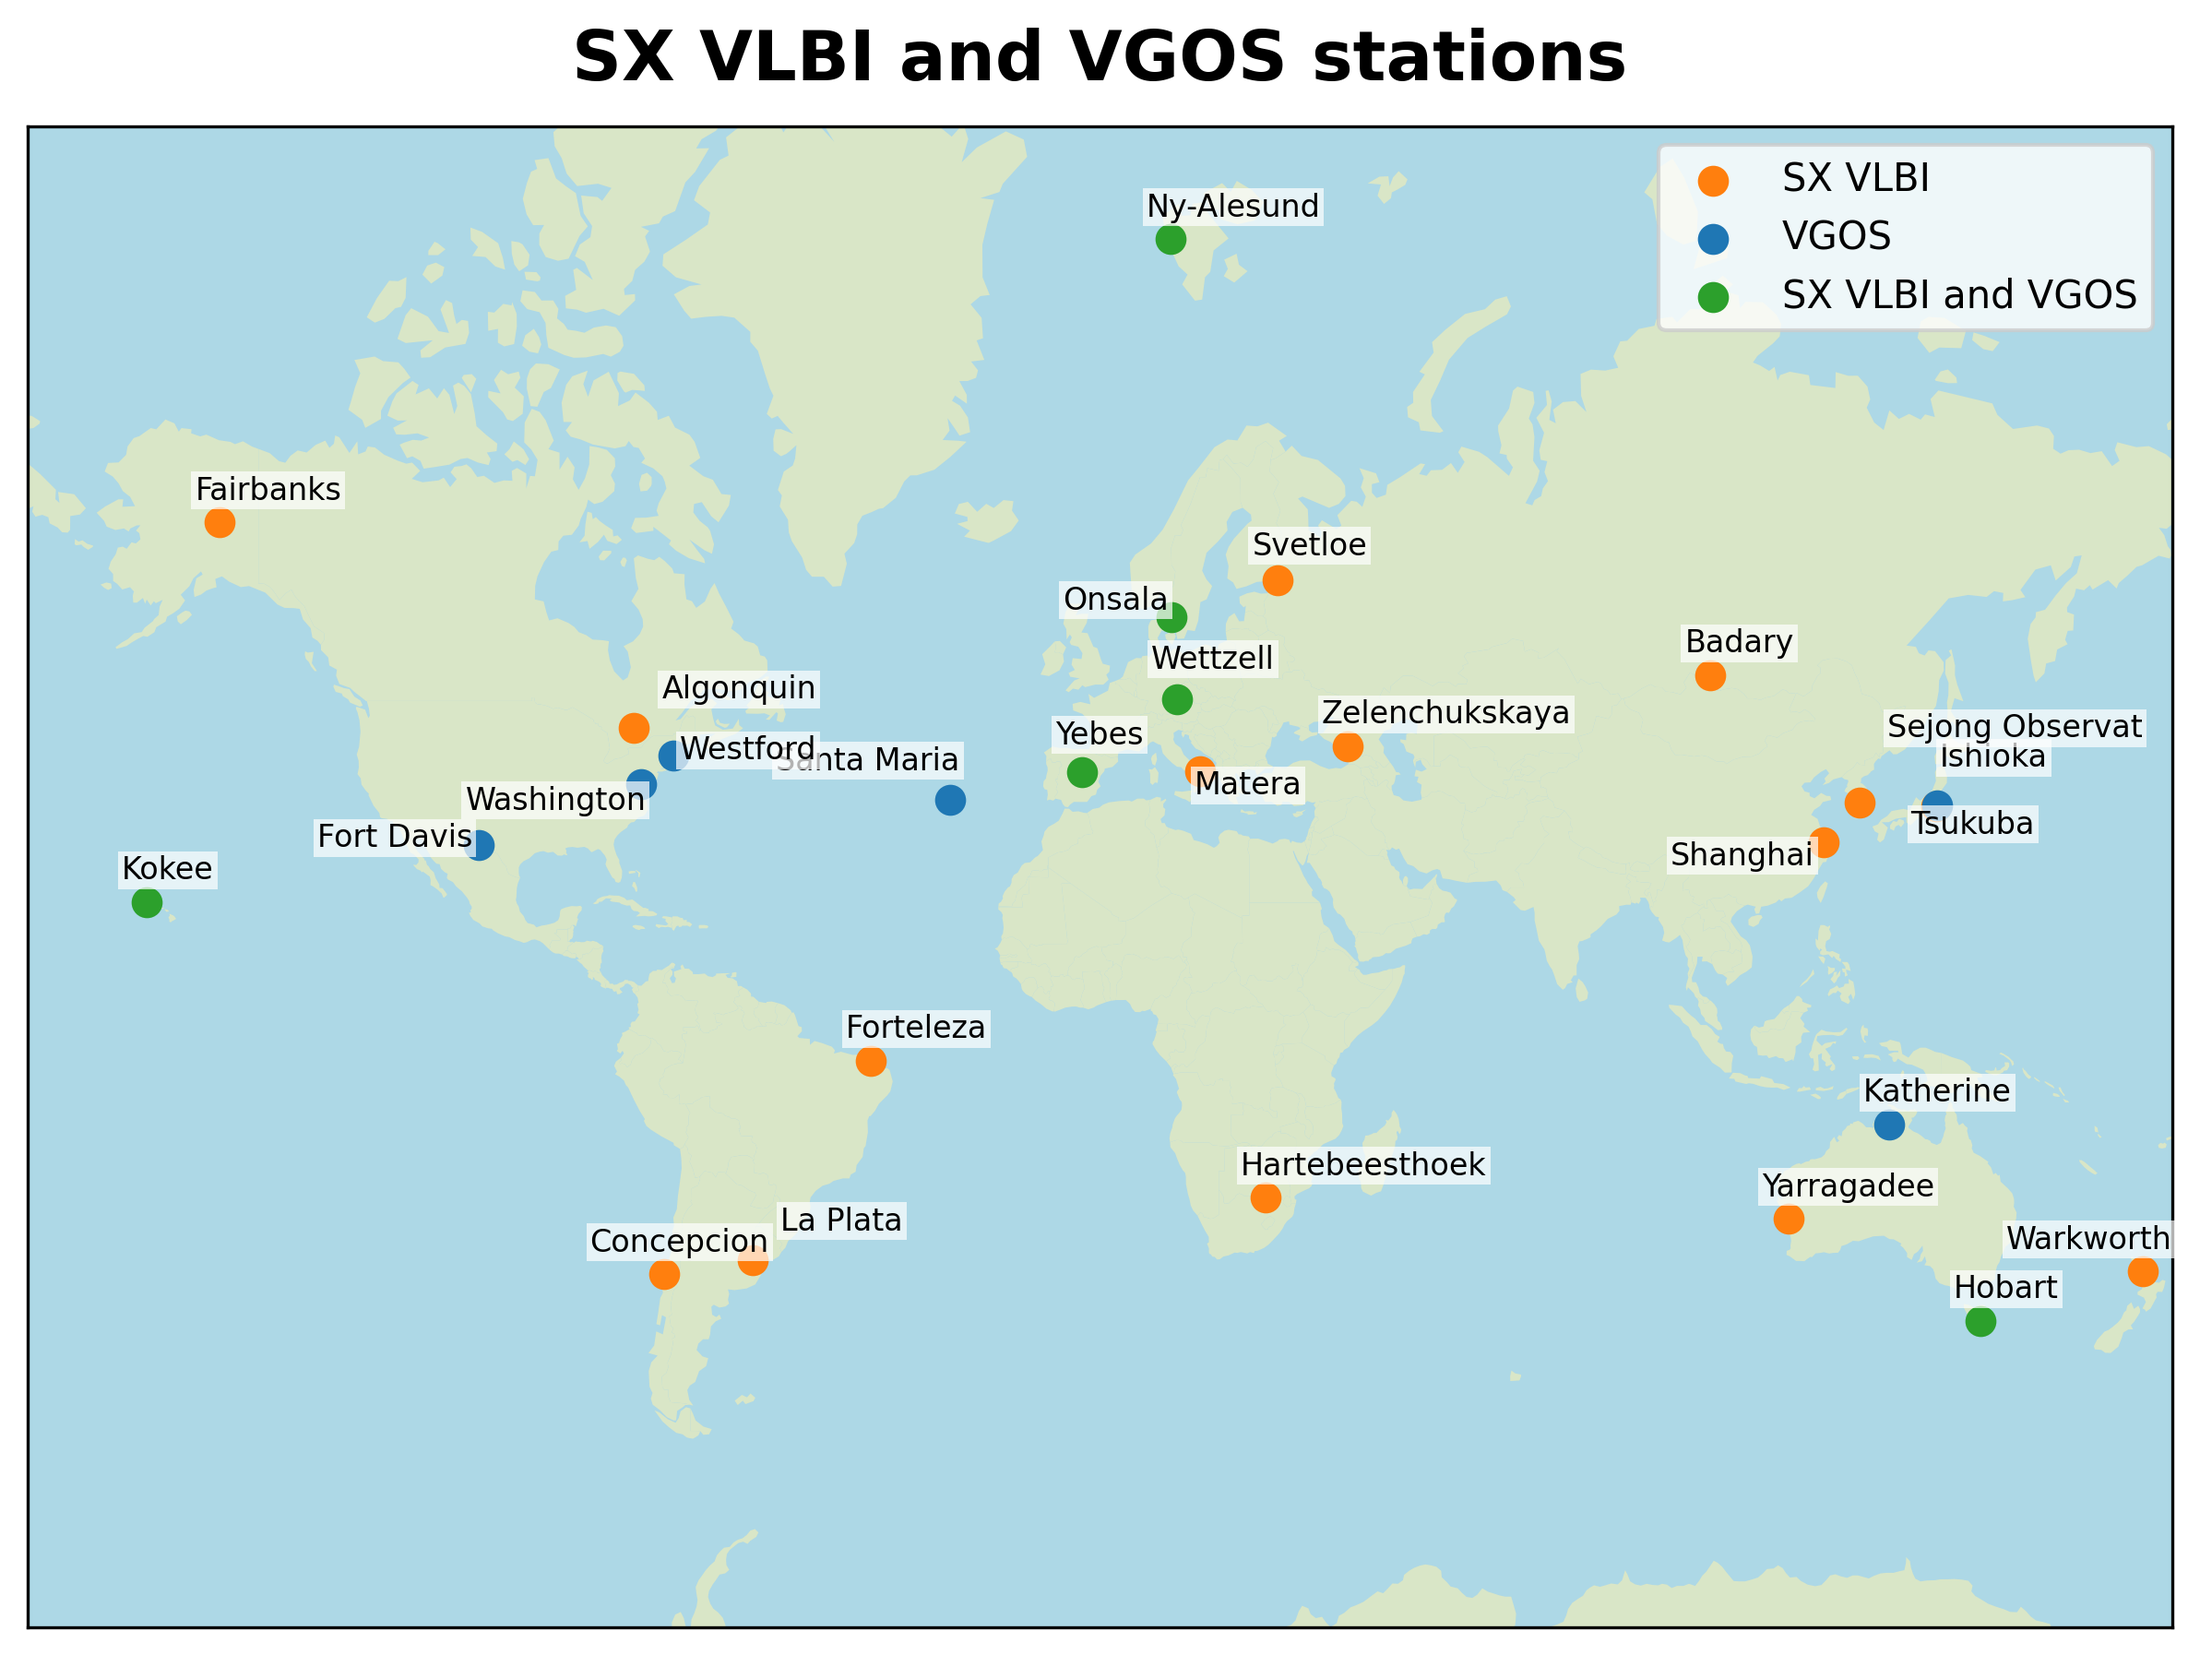
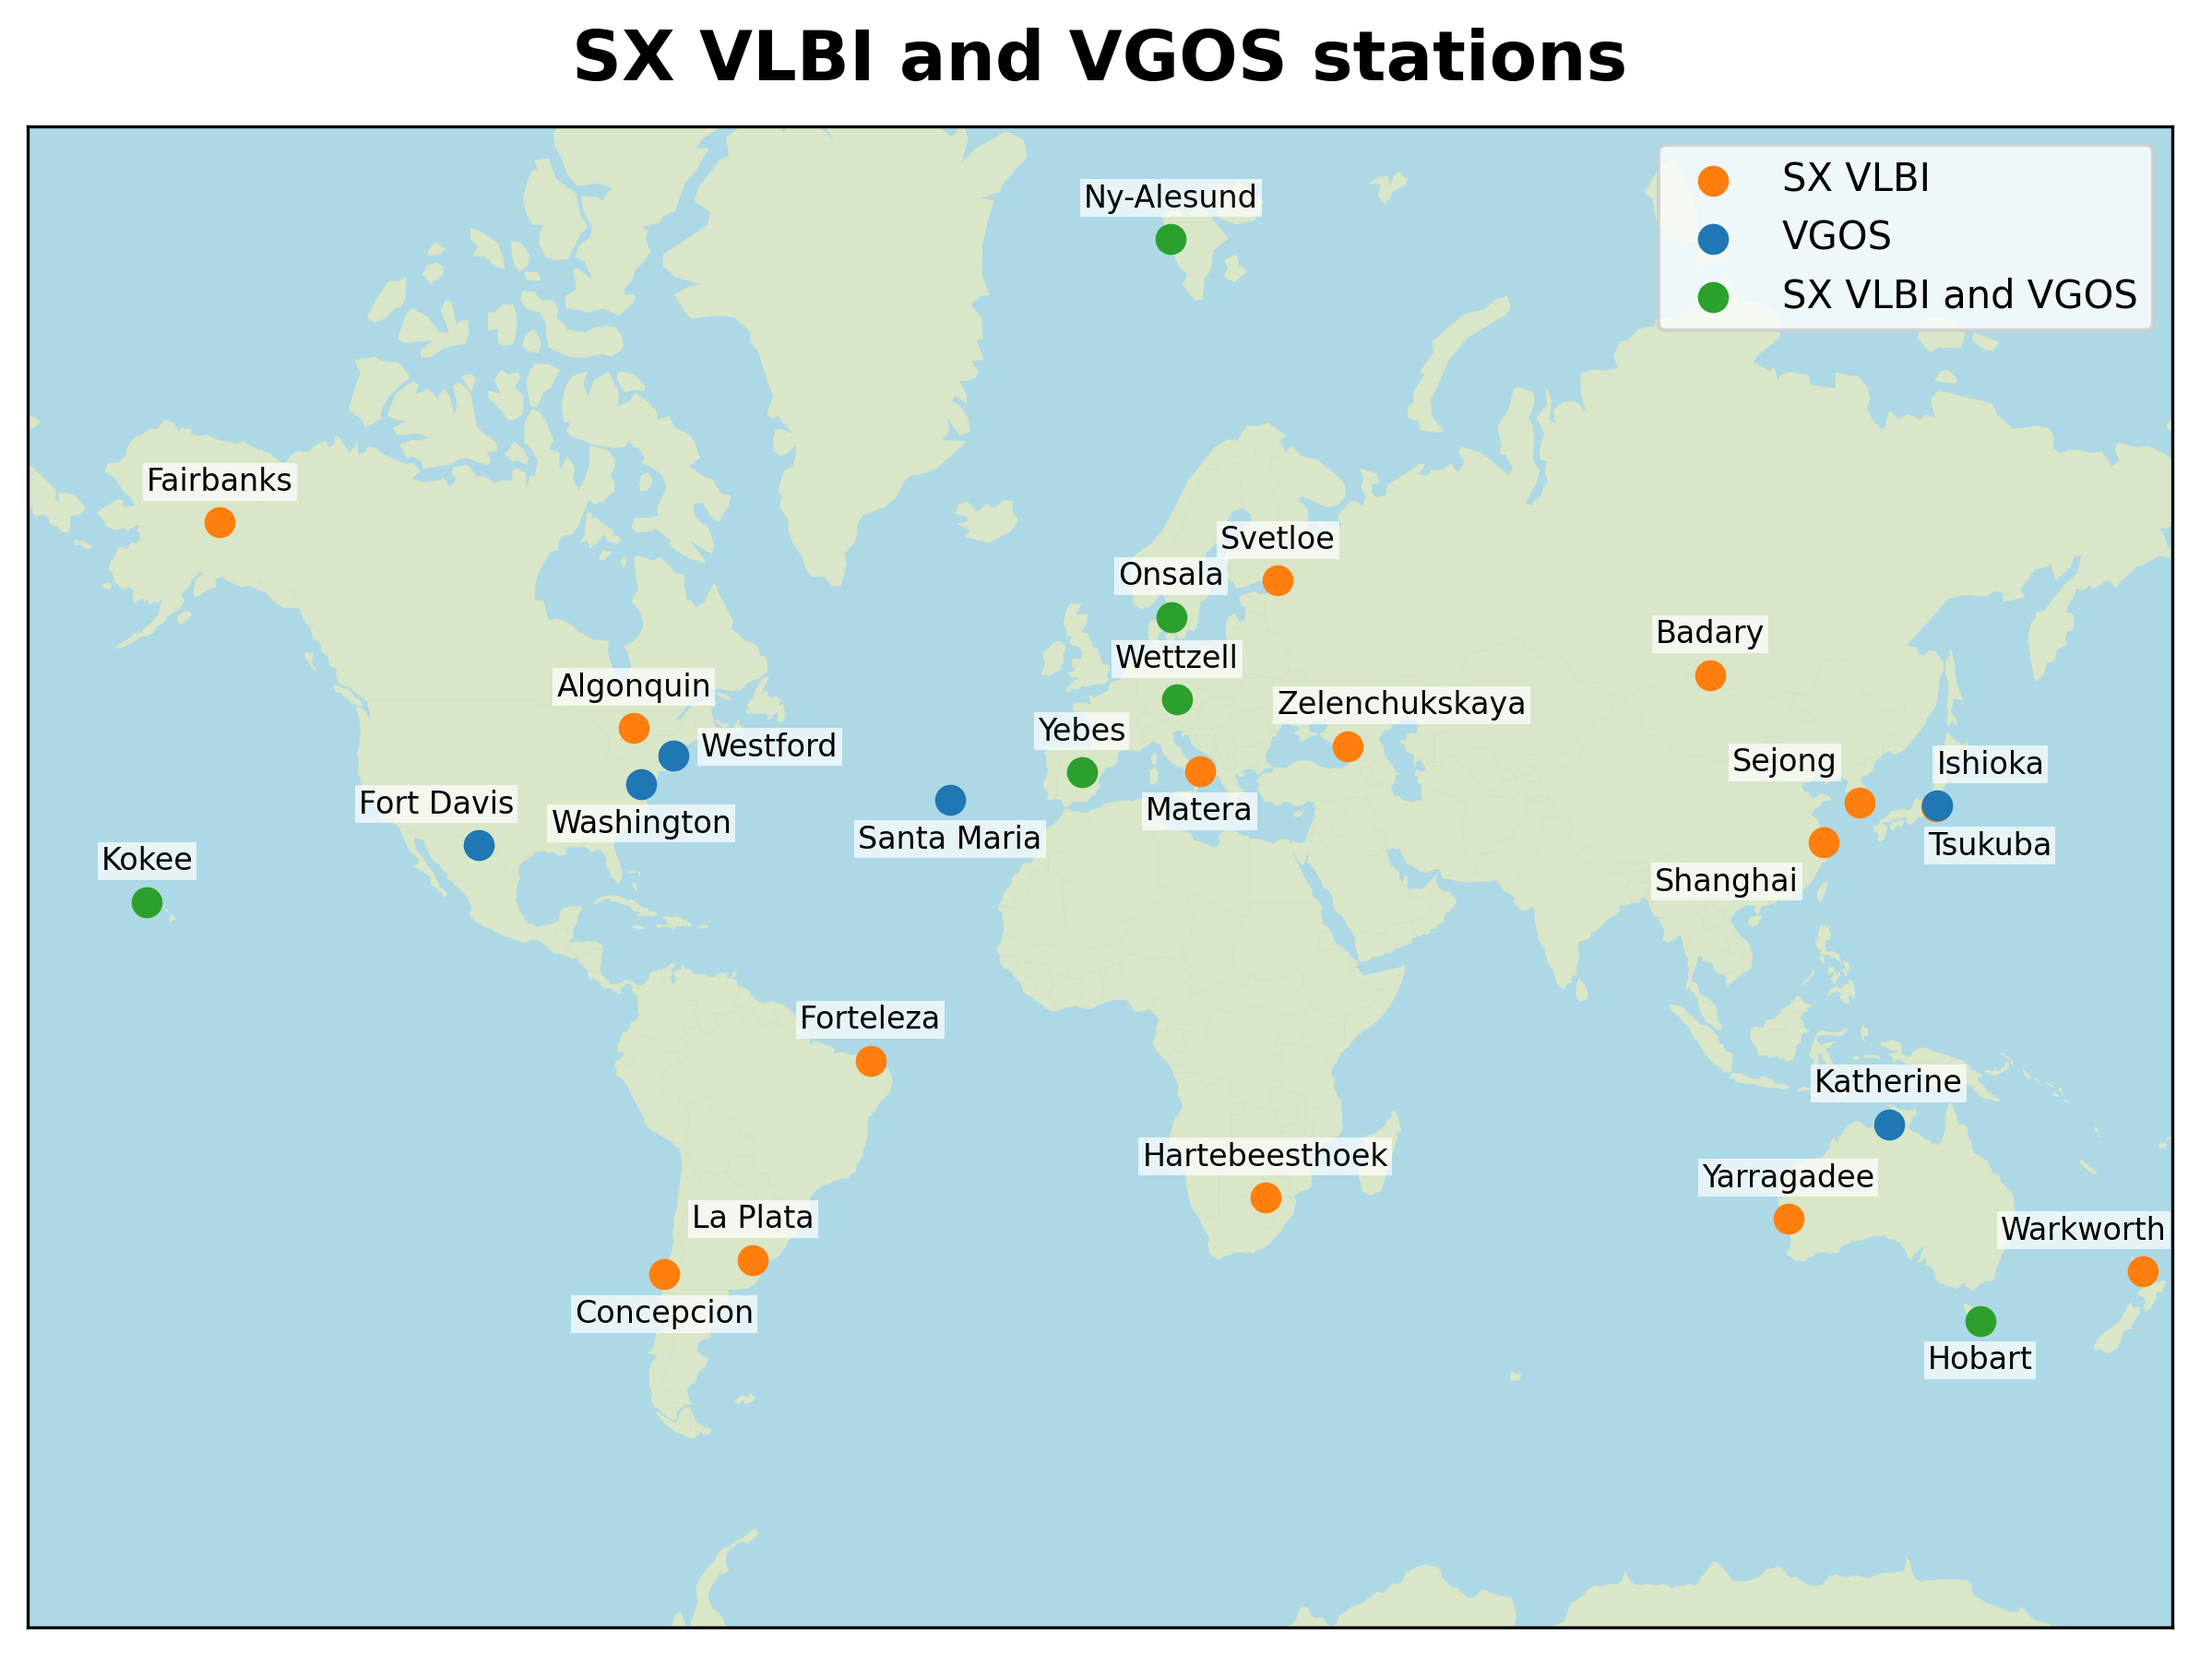
fixed label positions manually

diff --git a/plot_station.py b/plot_station.py
@@ -263,18 +263,48 @@ def plot_stations(df, technology):
     # Add text labels with an initial offset
     texts = []
     for x, y, label, num in zip(gdf_mercator.geometry.x, gdf_mercator.geometry.y, gdf_mercator.Location_Name, gdf_mercator.Session_Count):
-        texts.append(ax.text(x, y + 10, label, ha='center', fontsize=8, bbox=dict(facecolor='white', alpha=0.7, edgecolor='none', pad=1)))
+        if label == "Sejong Observat":
+            label = "Sejong"
+            x = x - 1400000
+        elif label == "Washington":
+            y = y - 1500000
+        elif label == "Fort Davis":
+            x = x - 800000
+        elif label == "Shanghai":
+            x = x - 1800000
+            y = y - 1500000
+        elif label == "Westford":
+            x = x + 1800000
+            y = y - 600000
+        elif label == "Santa Maria":
+            y = y - 1500000
+        elif label == "Concepcion":
+            y = y - 1500000
+        elif label == "Hobart":
+            y = y - 1500000
+        elif label == "Warkworth":
+            x = x - 1100000
+        elif label == "Tsukuba":
+            y = y - 1500000
+            x = x + 1000000
+        elif label == "Ishioka":
+            x = x + 1000000
+        elif label == "Matera":
+            y = y - 1500000
+        elif label == "Zelenchukskaya":
+            x = x + 1000000
+        texts.append(ax.text(x, y+600000, label, ha='center', fontsize=8, bbox=dict(facecolor='white', alpha=0.7, edgecolor='none', pad=1)))
 
     # Convert marker_positions to a list of tuples containing text objects at those positions
-    marker_texts = [ax.text(x, y, '   ', fontsize=5, bbox=dict(facecolor='white', alpha=0.0, edgecolor='none', pad=4)) for x, y in marker_positions]
-    texts = texts + marker_texts
+    #marker_texts = [ax.text(x, y, '   ', fontsize=5, bbox=dict(facecolor='white', alpha=0.0, edgecolor='none', pad=4)) for x, y in marker_positions]
+    #texts = texts + marker_texts
 
     # Adjust text to avoid overlap, including marker positions in the adjustment
-    adjust_text(texts, add_objects=marker_texts, 
+    """adjust_text(texts, add_objects=marker_texts, 
             avoid_points=False, 
             avoid_self=True,
             only_move={'points':'yx', 'texts':'yx'},)
-
+    """
     ax.set_xticks([])
     ax.set_yticks([])
 
